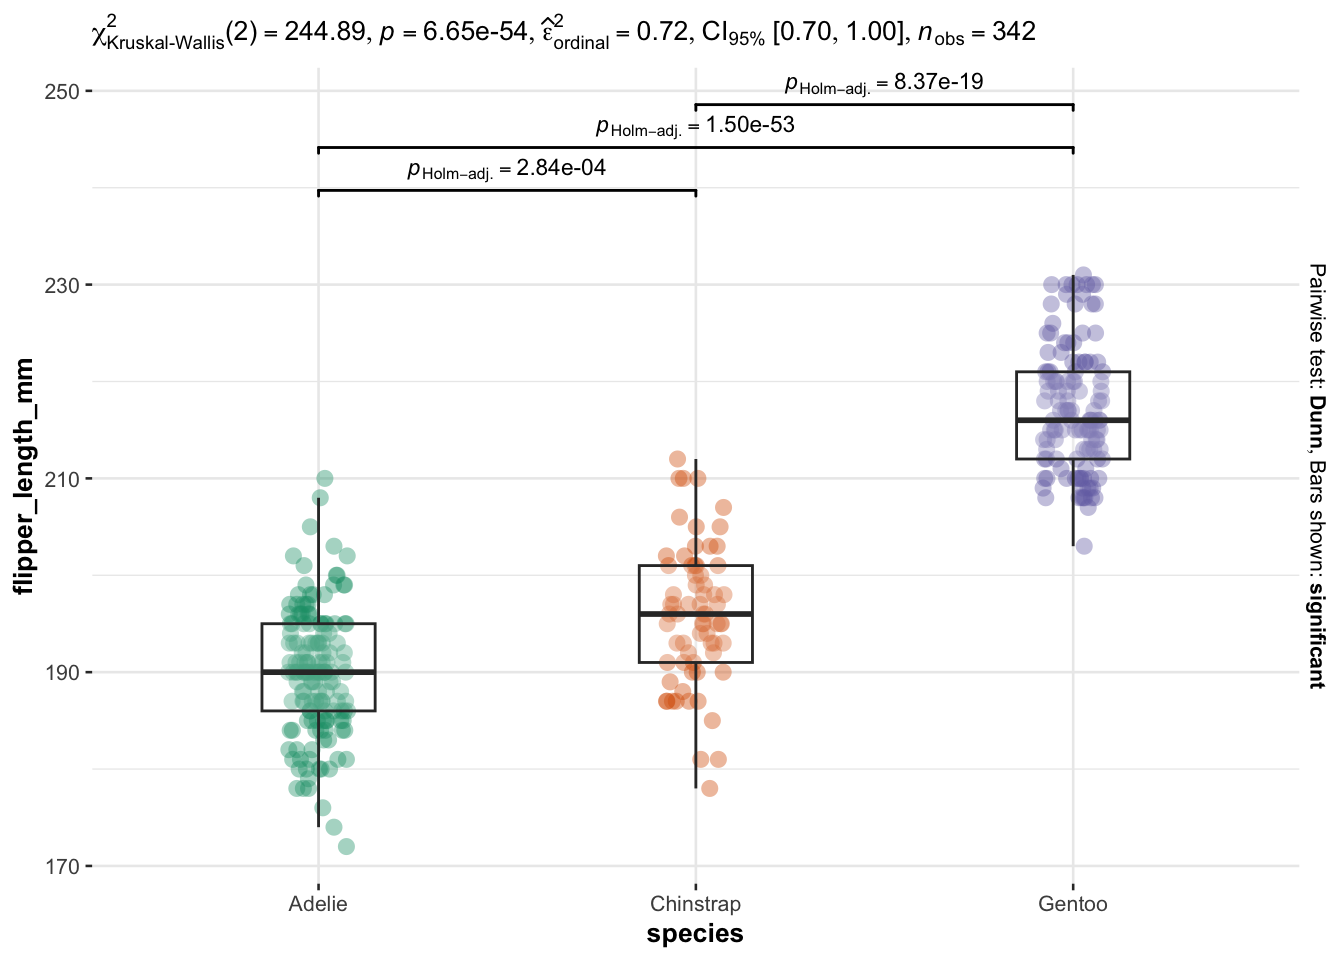
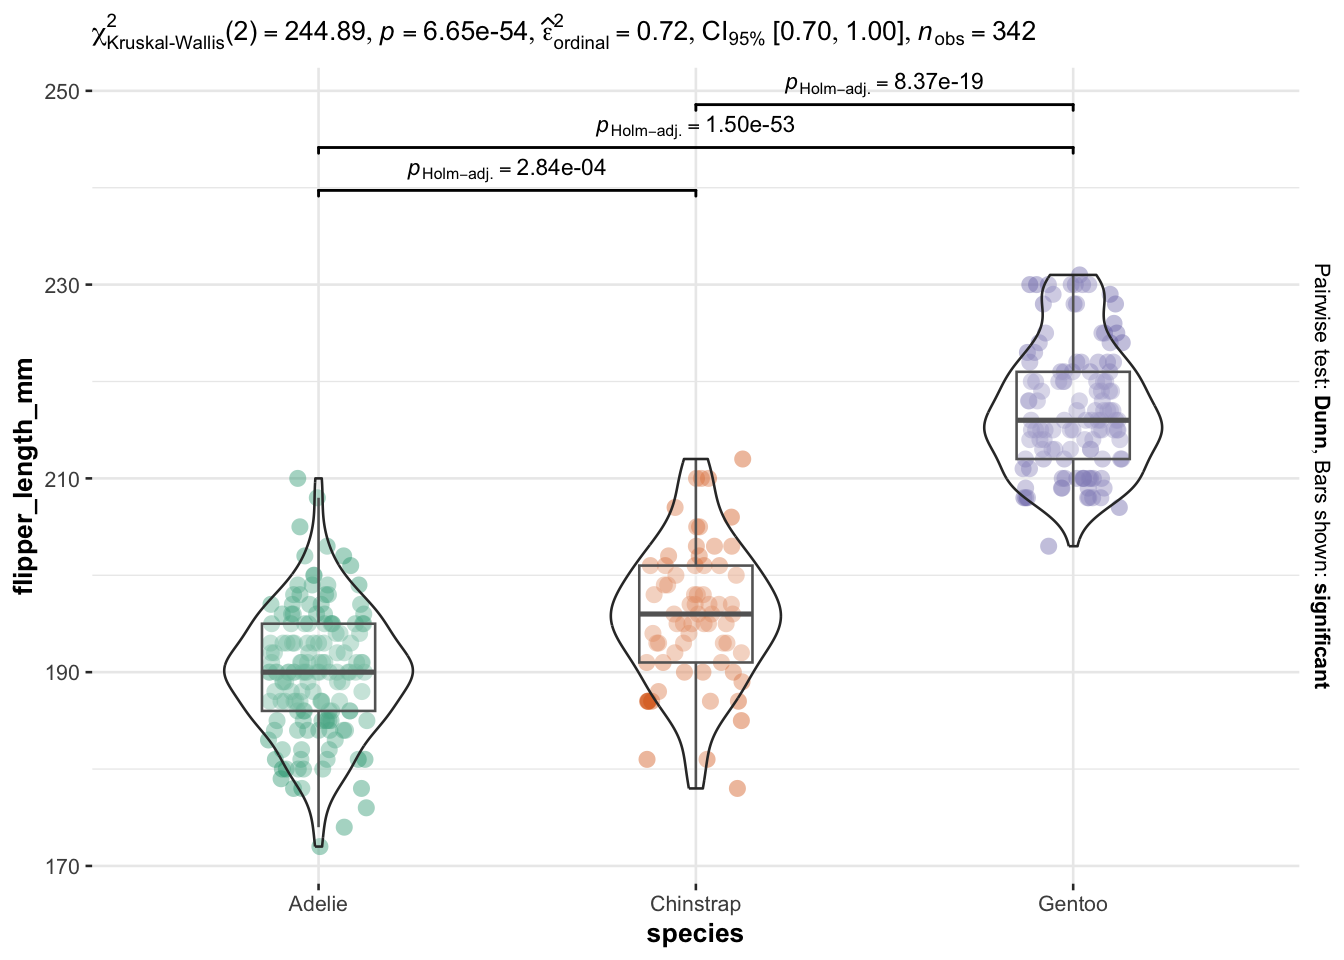
fix typo

diff --git a/content/blog/2022-03-24-kruskal-wallis-test-or-the-nonparametric-version-of-the-anova/index.html b/content/blog/2022-03-24-kruskal-wallis-test-or-the-nonparametric-version-of-the-anova/index.html
@@ -90,7 +90,7 @@ ggplot(dat) +
   aes(x = species, y = flipper_length_mm, fill = species) +
   geom_boxplot() +
   theme(legend.position = &quot;none&quot;)</code></pre>
-<p><img src="{{< blogdown/postref >}}index_files/figure-html/unnamed-chunk-3-1.png" width="100%" style="display: block; margin: auto;" /></p>
+<p><img src="{{< blogdown/postref >}}index_files/figure-html/unnamed-chunk-3-1.png" alt="" width="100%" style="display: block; margin: auto;" /></p>
 <p>Based on the boxplots and the summary statistics, we already see that, in our <a href="/blog/what-is-the-difference-between-population-and-sample/">sample</a>, penguins from the Adelie species seem to have the smallest flippers, while those from the Gentoo species seem to have the biggest flippers. However, only a sound statistical test will tell us whether we can infer this conclusion to our <a href="/blog/what-is-the-difference-between-population-and-sample/">population</a>.</p>
 </div>
 <div id="kruskal-wallis-test" class="section level1">
@@ -123,7 +123,7 @@ ggplot(dat) +
   data = dat
 )</code></pre>
 <pre><code>## 
-##  Kruskal-Wallis rank sum test
+## 	Kruskal-Wallis rank sum test
 ## 
 ## data:  flipper_length_mm by species
 ## Kruskal-Wallis chi-squared = 244.89, df = 2, p-value &lt; 2.2e-16</code></pre>
@@ -144,7 +144,7 @@ ggplot(dat) +
 <li>Dunn test</li>
 <li>Conover test</li>
 <li>Nemenyi test</li>
-<li>Pairwise Wilcoxont test</li>
+<li>Pairwise Wilcoxon test</li>
 </ul>
 <p>The Dunn test being the most common one, here is how to do it in R.<a href="#fn4" class="footnote-ref" id="fnref4"><sup>4</sup></a></p>
 <div id="dunn-test" class="section level2">
@@ -185,7 +185,7 @@ ggbetweenstats(
   centrality.plotting = FALSE,
   bf.message = FALSE
 )</code></pre>
-<p><img src="{{< blogdown/postref >}}index_files/figure-html/unnamed-chunk-6-1.png" width="100%" style="display: block; margin: auto;" /></p>
+<p><img src="{{< blogdown/postref >}}index_files/figure-html/unnamed-chunk-6-1.png" alt="" width="100%" style="display: block; margin: auto;" /></p>
 <p>This method has the advantage that all necessary statistical results are displayed directly on the plot.</p>
 <p>The results of the Kruskal-Wallis test are shown in the subtitle above the plot (the <em>p</em>-value is after <code>p =</code>). Moreover, the results of the post-hoc test are displayed between each group via accolades, and the boxplots allow to visualize the distribution for each species.</p>
 </div>
@@ -208,7 +208,7 @@ Stevens, James P. 2013. <em>Intermediate Statistics: A Modern Approach</em>. Rou
 <div class="footnotes footnotes-end-of-document">
 <hr />
 <ol>
-<li id="fn1"><p>This is the case for small sample sizes. For large sample sizes, normality is not required (this is a common misconception!). By the <a href="https://en.wikipedia.org/wiki/Central_limit_theorem" target="_blank">central limit theorem</a>, sample means of large samples are often well-approximated by a normal distribution even if the data are not normally distributed <span class="citation">(<a href="#ref-stevens2013intermediate" role="doc-biblioref">Stevens 2013</a>)</span>. See more details in this <a href="/blog/anova-in-r/#fn3">note</a>.<a href="#fnref1" class="footnote-back">↩︎</a></p></li>
+<li id="fn1"><p>This is the case for small sample sizes. For large sample sizes, normality is not required (this is a common misconception!). By the <a href="https://en.wikipedia.org/wiki/Central_limit_theorem" target="_blank">central limit theorem</a>, sample means of large samples are often well-approximated by a normal distribution even if the data are not normally distributed <span class="citation">(<a href="#ref-stevens2013intermediate">Stevens 2013</a>)</span>. See more details in this <a href="/blog/anova-in-r/#fn3">note</a>.<a href="#fnref1" class="footnote-back">↩︎</a></p></li>
 <li id="fn2"><p>Note that in theory, Kruskal-Wallis test can also be used for only two groups. However, in practice we use the <a href="/blog/wilcoxon-test-in-r-how-to-compare-2-groups-under-the-non-normality-assumption/">Mann-Whitney test</a> for two groups and Kruskal-Wallis for three or more groups.<a href="#fnref2" class="footnote-back">↩︎</a></p></li>
 <li id="fn3"><p>See more information about the difference in this <a href="https://influentialpoints.com/Training/Kruskal-Wallis_ANOVA_use_and_misuse.htm" target="_blank">article</a>.<a href="#fnref3" class="footnote-back">↩︎</a></p></li>
 <li id="fn4"><p>Note that there are other <em>p</em>-value adjustment methods. See <code>?dunnTest</code> for more options.<a href="#fnref4" class="footnote-back">↩︎</a></p></li>